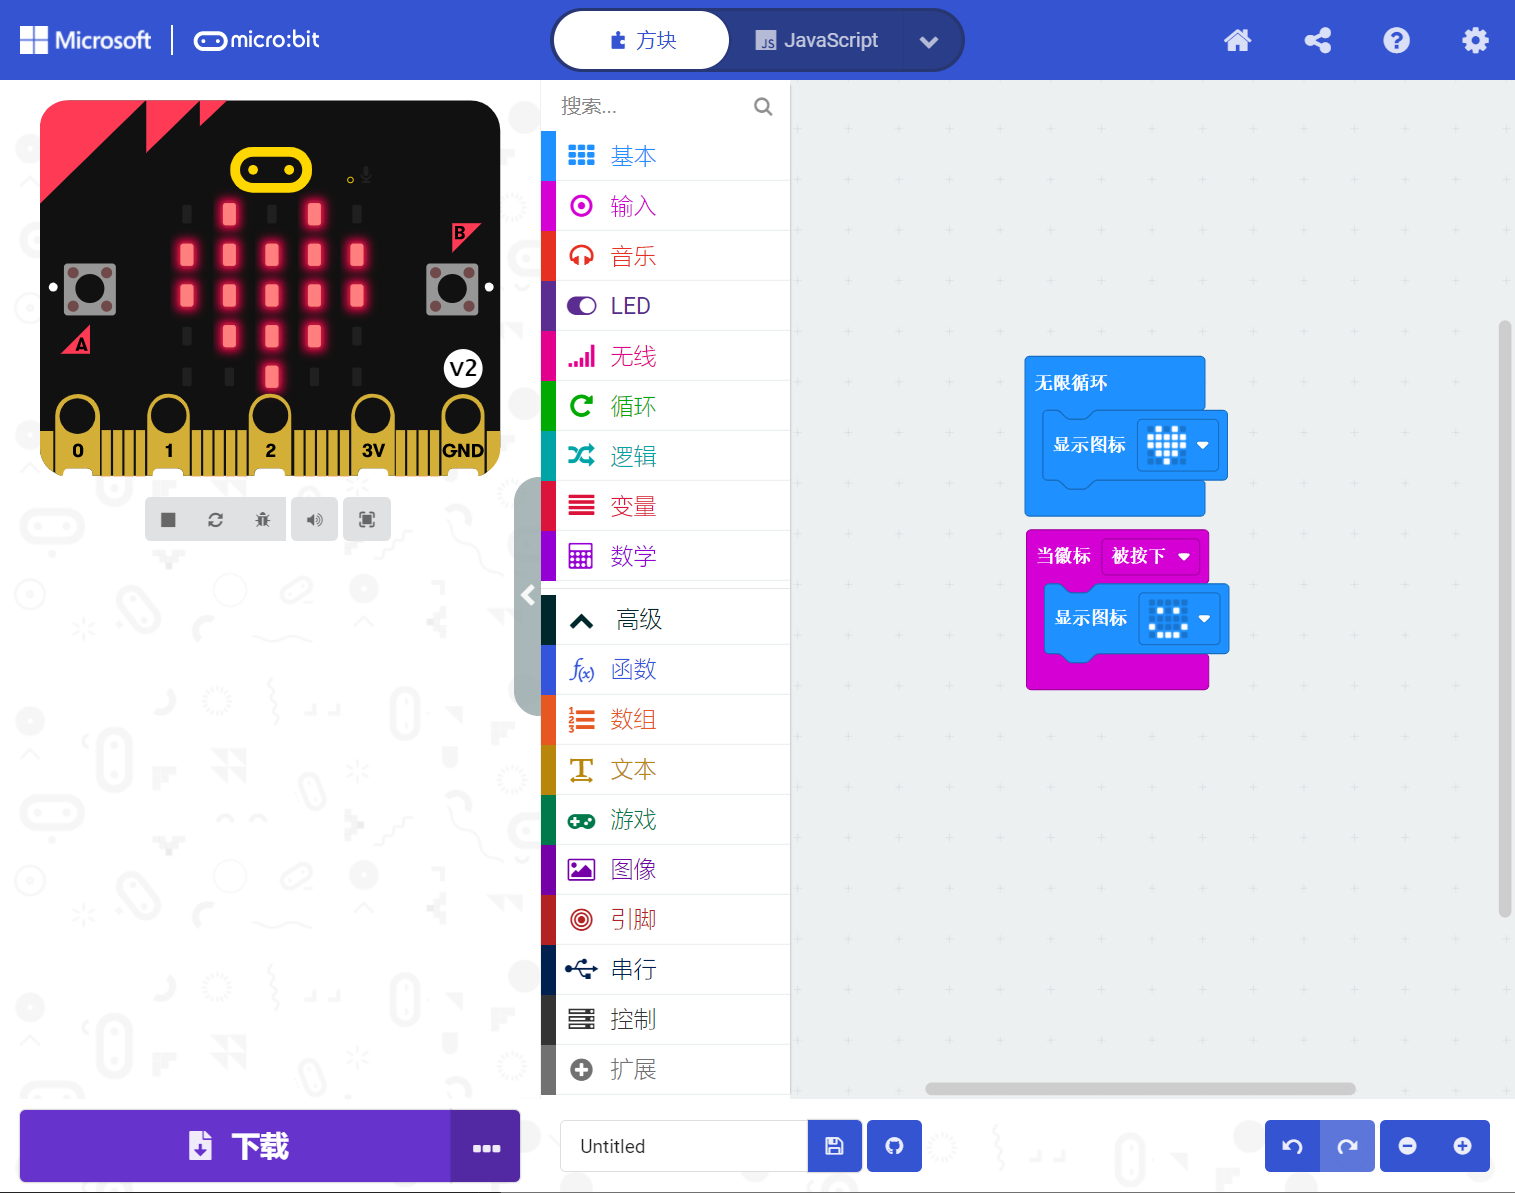
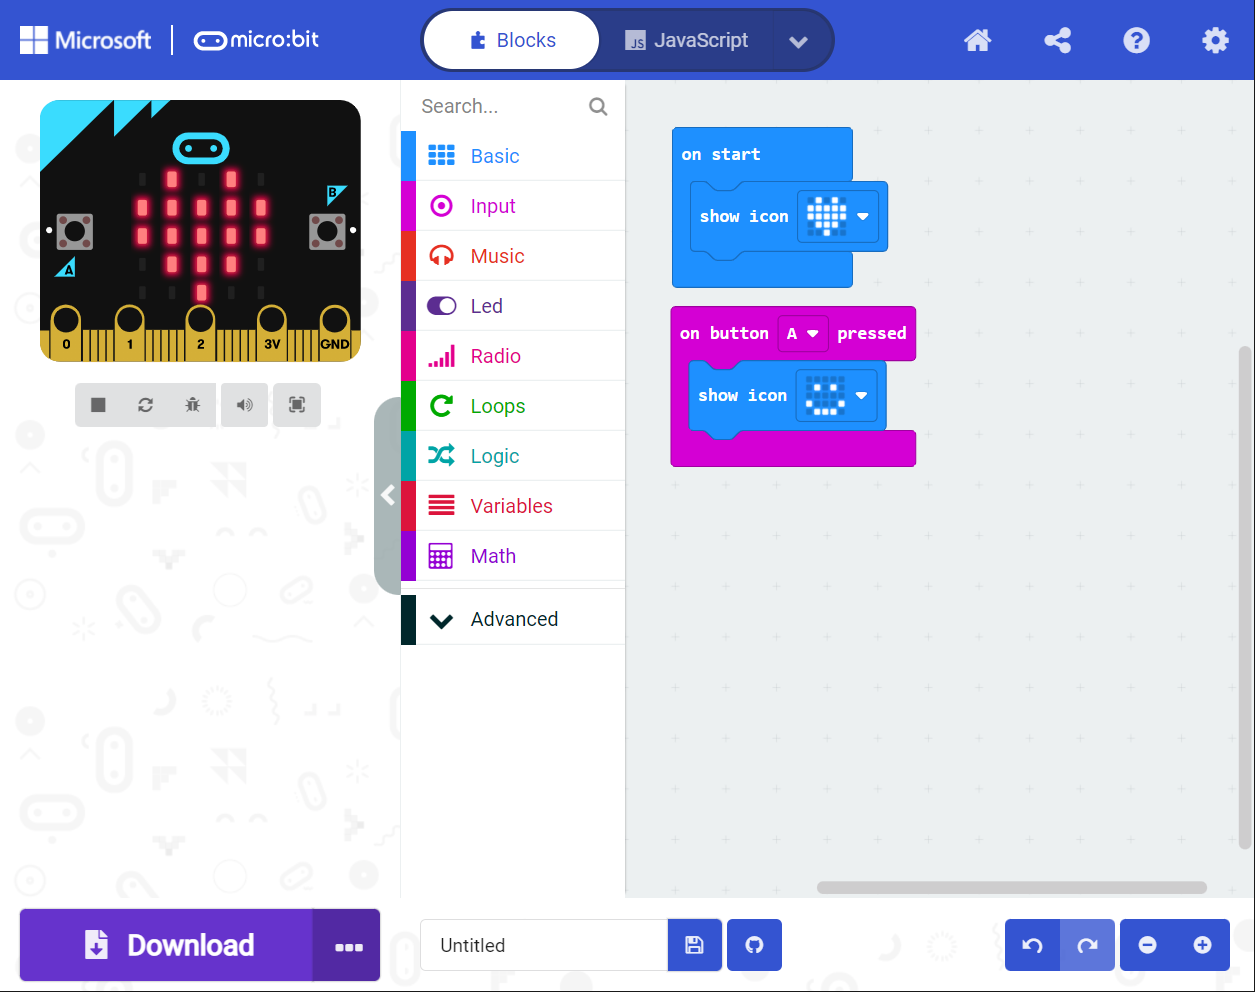
update first_meeting.md and picture

Changed region(s): [[0.0, 0.0, 1.0, 1.0], [0.5283, 0.125, 0.839, 0.5938]]

diff --git a/docs/Triode-Car/en/microbit_tutorial/first_meeting.md b/docs/Triode-Car/en/microbit_tutorial/first_meeting.md
@@ -1,29 +1,30 @@
-# 初识 micro:bit
+# First meeting with micro:bit
 
-[micro:bit](https://microbit.org/) 是一款由英国广播电视公司为青少年编程教育设计，并由微软，三星，ARM，英国兰卡斯特大学等合作伙伴共同完成开发的微型电脑，目前推出V1，V2两款，后者较比前者性能稍强。
+The [micro:bit](https://microbit.org/)(also referred to as BBC Micro Bit) is an open source hardware ARM-based embedded system designed by the BBC for use in computer education.This is jointly developed by partners such as Microsoft, Samsung, ARM, Lancaster University, etc. They currently have designed two models, V1 and V2, the latter has a slightly stronger performance than the former.
 
 ![](../assets/microbit.png)
 
-## MakeCode编辑器
-MakeCode 是微软所推行的应用于编程教育的图形编程语言，也是 micro:bit 目前主流应用的编程语言，无需下载安装任何本地应用，在浏览器中打开网页即可在线编程。
+## MakeCode editor
 
-[micro:bit-MakeCode 网页链接](https://makecode.microbit.org/#)
+MakeCode is a graphical code editor for programming education promoted by Microsoft. It is also the code editor for micro:bit's current mainstream applications. You don't need to download and install any local applications. You can open the webpage in the browser to program online. 
 
-在MakeCode编辑器中可以在零编程基础的情况下通过搭建图形积木的方式入门，更有将实现比较复杂的程序封装起来的扩展积木可以使用，进一步降低门槛，对多国语言的本地化支持也是其重要的优势。
+[micro:bit-MakeCode ](https://makecode.microbit.org/#)
 
-其编辑器主要由三个部分组成，图形化积木（blocks）编辑器，仿真模拟器，图形化积木所对应的JavaScript代码编辑器。
+In the MakeCode editor, you can start by building blocks with zero programming foundation, and you can use Extensions’ blocks that have encapsulated more complex programs, further reducing the threshold. Localization support for multiple languages is also an important advantage. 
+
+The editor is mainly composed of three parts, a graphical block editor, a simulation simulator, and a JavaScript code editor. 
 
 ![](../assets/microbit-MakeCode.png)
 
-## MicroPython编辑器
+## MicroPython editor
 
-MicroPython是相对进阶但也并不难上手学习的编程语言，micro:bit 更有提供较为易用的模块来降低对其编程难度，其相对图形编程最大的不同就是转变为抽象的字符代码。
+MicroPython is a relatively advanced but not difficult to learn programming language.Micro:bit provides easier-to-use modules to reduce the difficulty of programming. The biggest difference between micro:bit and graphics programming is that it is transformed into abstract character codes.
 
-[micro:bit-micropython 网页链接](https://python.microbit.org/v/2)
+[micro:bit-micropython](https://python.microbit.org/v/2)
 
-如其名所述，它是 Python 3 编程语言的一个精简高效的实现，它包含了 Python 标准库的一小部分子集，并且经过优化，可以在微控制器上和受限环境中运行。
+As the name suggests, it is a streamlined and efficient implementation of the Python 3 programming language. It contains a small subset of the Python standard library and is optimized to run on microcontrollers and in restricted environments. 
 
-如果曾经学过python，那将会相当容易上手，反之在开发板上学习了MicroPython后，也能几乎无障碍地切换到python做进一步的学习或开发应用。
+If you have ever learned Python, it will be quite easy to get started. On the contrary, after learning MicroPython on the development board, you can switch to Python for further learning or application development almost without obstacles. 
 
 ![](../assets/microbit-micropython.png)
 
